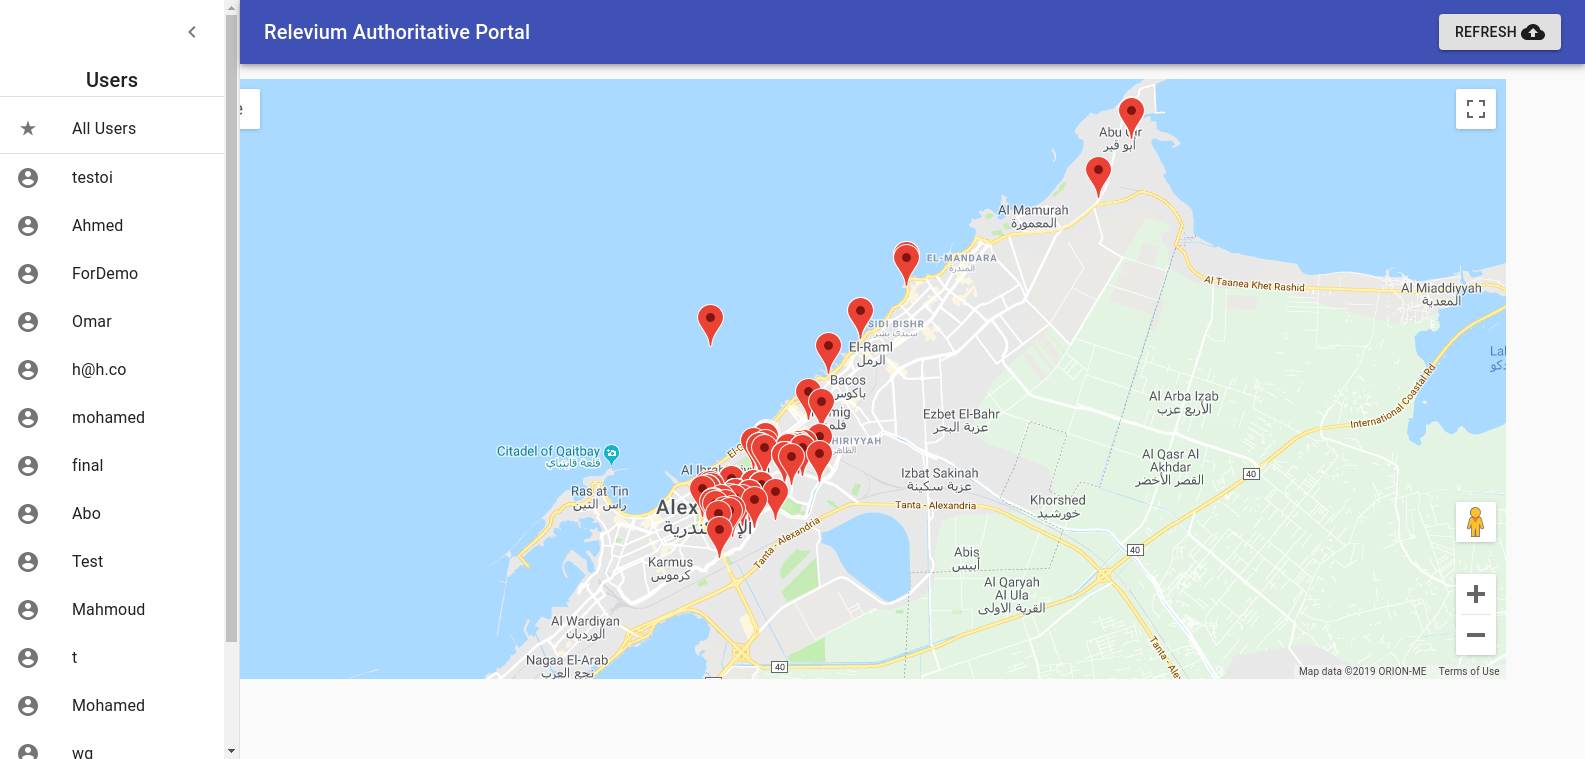
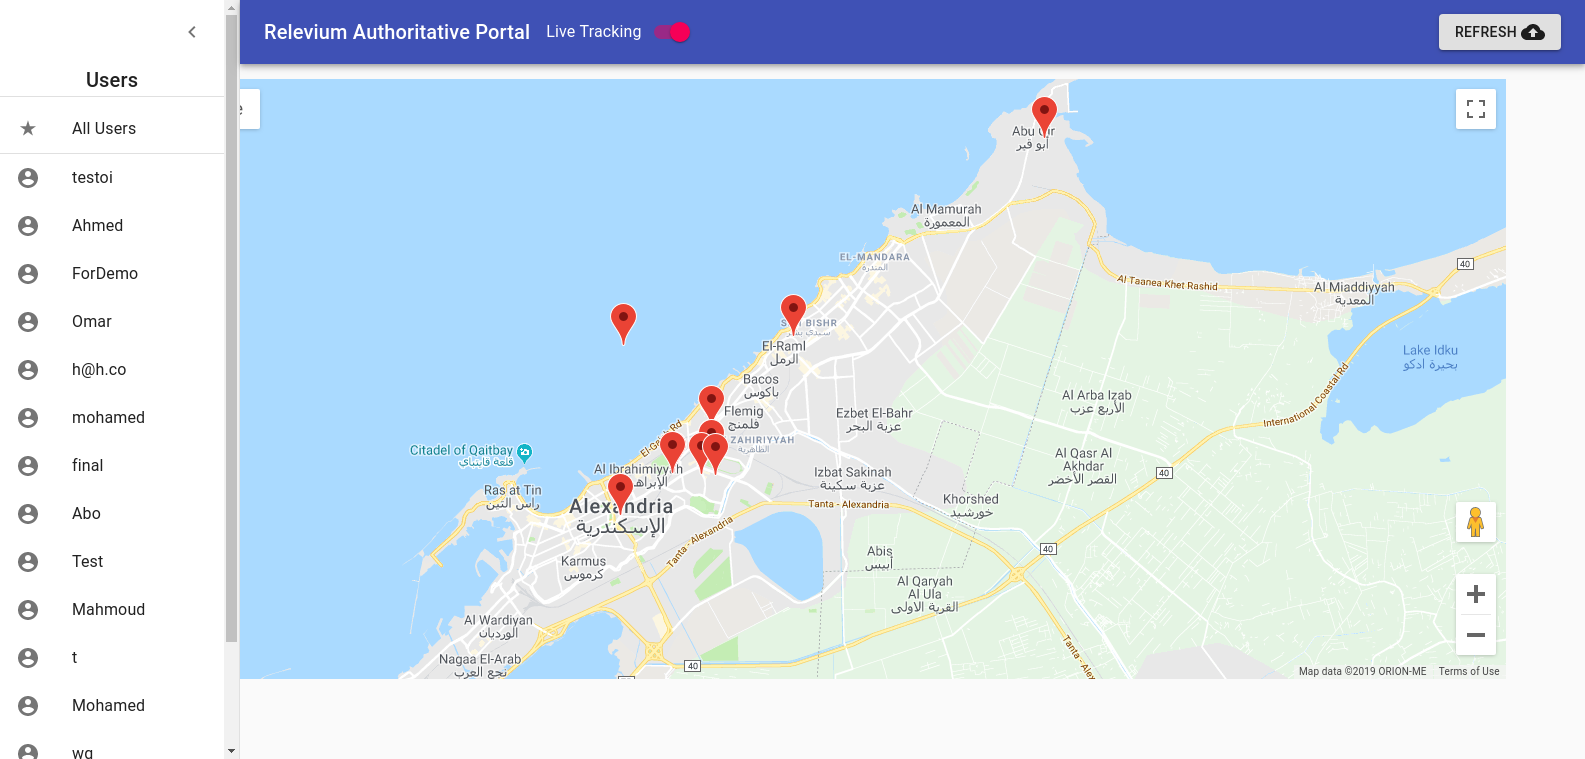
Adding live tracking

diff --git a/src/components/MapContainer.js b/src/components/MapContainer.js
@@ -25,10 +25,10 @@ class MapContainer extends Component {
     };
 
 
-    safeGetFirstName = (val) => {
+    safeGetAttribute = (object, attrib) => {
 
         try {
-            return val['mFirstName']
+            return object[attrib];
         }
         catch
         {
@@ -36,8 +36,19 @@ class MapContainer extends Component {
         }
     }
 
+    safeGetDateTime = (object) => {
 
-    drawMarks = () => { // optimize more
+        try {
+            return object['userState']['date'] + ' ' + object['userState']['time'];
+        }
+        catch
+        {
+            return 'Unknown Time'
+        }
+    }
+
+
+    drawALLMarkers = () => { // optimize more
         let res = [];
         for (var markID in this.props.db.GeoFirePingLocations) {
             let mark = this.props.db.GeoFirePingLocations[markID];
@@ -46,7 +57,23 @@ class MapContainer extends Component {
                     <Marker
                         key={markID}
                         position={{ lat: mark.l[0], lng: mark.l[1] }}
-                        title={'This mark was added by ' + this.safeGetFirstName(this.props.db.Users[mark.mUserID])}
+                        title={'This mark was added by ' + this.safeGetAttribute(this.props.db.Users[mark.mUserID], 'mFirstName')}
+                        onClick={this.onMarkerClick}
+                    />)
+        }
+        return res;
+    }
+
+    drawLiveMarkers = () => {
+        let res = [];
+        for (var currentUserID in this.props.db.Users) {
+            let mark = this.props.db.Users[currentUserID];
+            if (currentUserID === this.props.userID || this.props.userID === 'ALL')
+                res.push(
+                    <Marker
+                        key={currentUserID}
+                        position={{ lat: mark.l[0], lng: mark.l[1] }}
+                        title={'Last recorded Location of ' + this.safeGetAttribute(mark, 'mFirstName') + ' ' + this.safeGetDateTime(mark)}
                         onClick={this.onMarkerClick}
                     />)
         }
@@ -69,8 +96,16 @@ class MapContainer extends Component {
                     zoom={14}>
 
                     {
-                        this.drawMarks()
+                        !this.props.liveTrack
+                        && this.drawALLMarkers()
                     }
+
+                    {
+                        this.props.liveTrack
+                        && this.drawLiveMarkers()
+                    }
+
+
 
                     <InfoWindow
                         marker={this.state.activeMarker}

diff --git a/src/App.js b/src/App.js
@@ -1,7 +1,7 @@
 import React, { Component } from 'react';
 import './App.css';
 import MapContainer from './components/MapContainer';
-import { Spinner } from 'reactstrap';
+import Spinner from './components/Spinner';
 import UsersDrawer from './components/UsersDrawer';
 
 class App extends Component {
@@ -10,12 +10,17 @@ class App extends Component {
   state = {
     loading: true,
     selectedUser: 'ALL',
-    db: {}
+    db: {},
+    liveTrack: false
   }
 
   componentDidMount() {
     document.title = "Authorities Portal"
     this.fetchAll();
+  }
+
+  liveLocationHandler = (value) => {
+    this.setState({ liveTrack: value });
   }
 
   selectedUserHandler = (userID) => {
@@ -71,19 +76,21 @@ class App extends Component {
     return (
       <div className="App" >
         <UsersDrawer
+          liveLocationHandler={this.liveLocationHandler}
           selectedUserHandler={this.selectedUserHandler}
           refreshHandler={this.fetchAll}
           users={this.state.db.Users} />
 
         {
           this.state.loading &&
-          <Spinner style={{ width: '3rem', height: '3rem' }} />
+          <Spinner />
         }
 
         {
           !this.state.loading
           &&
           <MapContainer
+            liveTrack={this.state.liveTrack}
             db={this.state.db}
             userID={this.state.selectedUser}
             mapCenter={{ lat: 31.309954, lng: 30.065655 }} />

diff --git a/src/components/LastLocationSwitch.js b/src/components/LastLocationSwitch.js
@@ -1,0 +1,29 @@
+import React from 'react';
+import Switch from '@material-ui/core/Switch';
+import FormGroup from '@material-ui/core/FormGroup';
+import FormControlLabel from '@material-ui/core/FormControlLabel';
+import FormControl from '@material-ui/core/FormControl';
+
+function FormControlLabelPosition(props) {
+    const [value, setValue] = React.useState('female');
+
+    function handleChange(event) {
+        props.liveLocationHandler(event.target.checked);
+        setValue(event.target.value);
+    }
+
+    return (
+        <FormControl component="fieldset">
+            <FormGroup aria-label="position" name="position" value={value} onChange={handleChange} row>
+                <FormControlLabel
+                    value="start"
+                    control={<Switch color="secondary" />}
+                    label="Live Tracking"
+                    labelPlacement="start"
+                />
+            </FormGroup>
+        </FormControl>
+    );
+}
+
+export default FormControlLabelPosition;

diff --git a/src/components/UsersDrawer.js b/src/components/UsersDrawer.js
@@ -20,6 +20,8 @@ import StarRate from '@material-ui/icons/StarRate'
 import CloudUploadIcon from '@material-ui/icons/CloudUpload'
 import Button from '@material-ui/core/Button';
 
+import Switch from './LastLocationSwitch';
+
 const drawerWidth = 240;
 
 const useStyles = makeStyles(theme => ({
@@ -156,6 +158,9 @@ export default function UsersDrawer(props) {
                     <Typography variant="h6" noWrap>
                         Relevium Authoritative Portal
           </Typography>
+
+
+                    <Switch liveLocationHandler={props.liveLocationHandler} />
                     <Button
                         onClick={props.refreshHandler}
                         variant="contained"

diff --git a/src/components/Spinner.js b/src/components/Spinner.js
@@ -1,0 +1,21 @@
+import React from 'react';
+import { makeStyles } from '@material-ui/core/styles';
+import CircularProgress from '@material-ui/core/CircularProgress';
+
+const useStyles = makeStyles(theme => ({
+    progress: {
+        margin: theme.spacing(2),
+    },
+}));
+
+export default function CircularIndeterminate() {
+    const classes = useStyles();
+
+    return (
+        <div>
+            <h1>Loading...</h1>
+            <CircularProgress className={classes.progress} />
+            {/* <CircularProgress className={classes.progress} color="secondary" /> */}
+        </div>
+    );
+}
